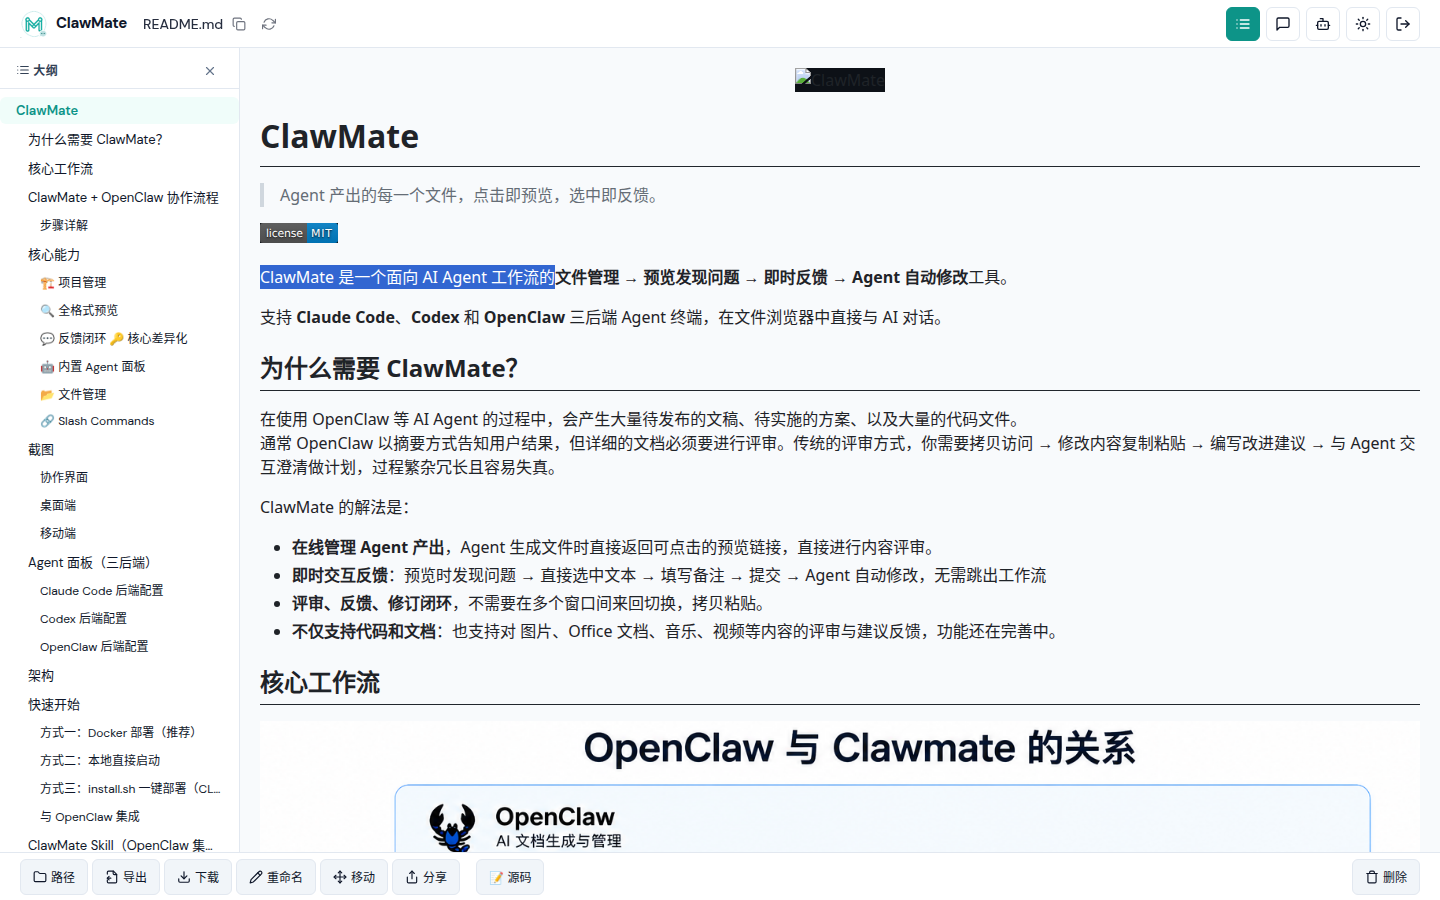
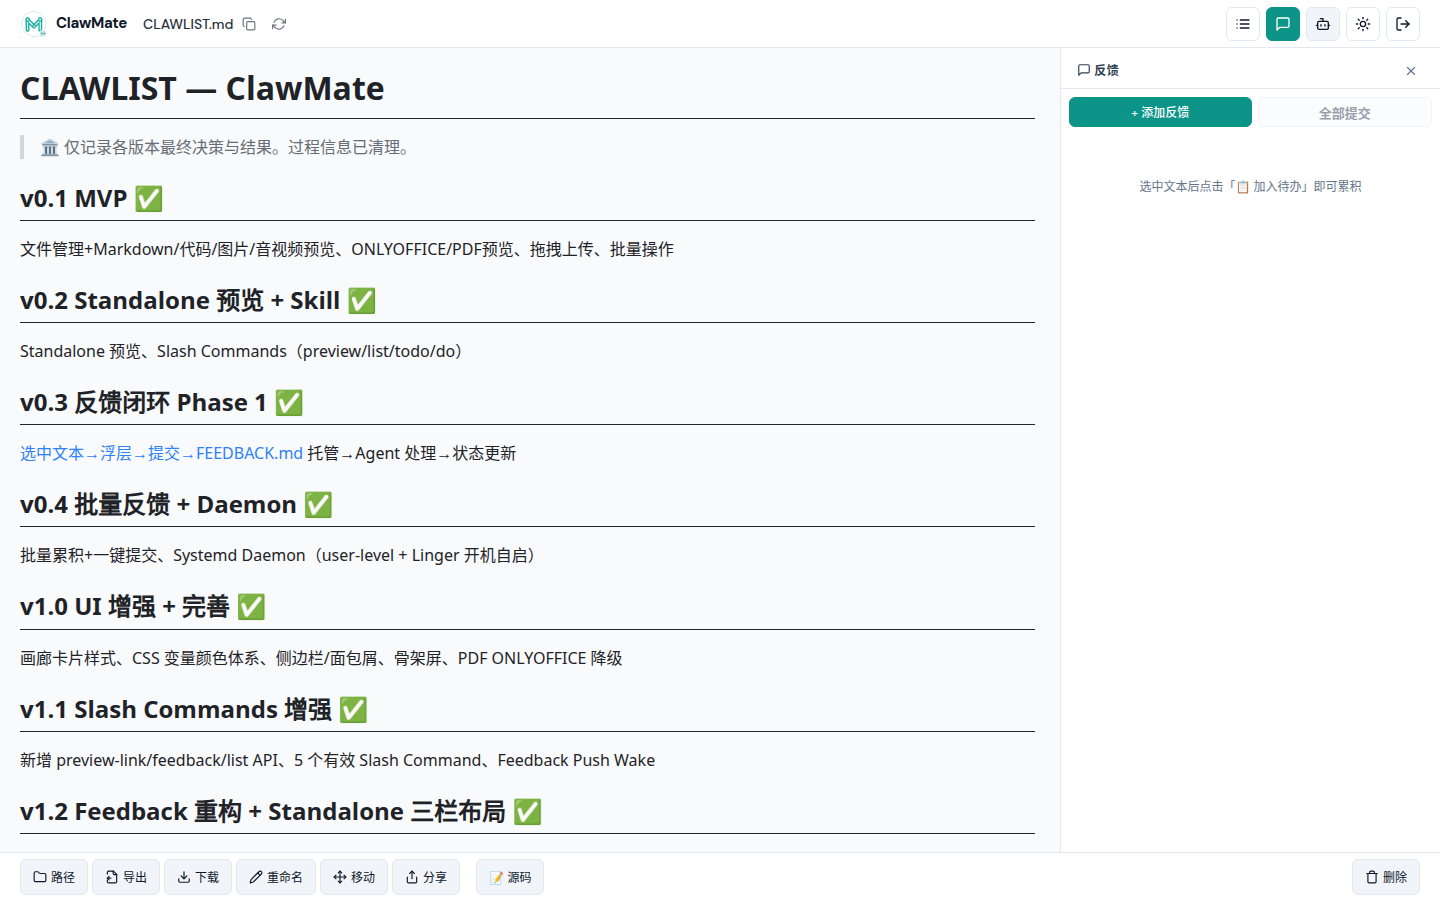
docs(README): 截图以 clawmate 项目为主页，补充 agent/feedback panel + 移动端合并
- 文件浏览器截图使用 clawmate 项目目录内容
- 预览截图展示 CLAWLIST.md + feedback timeline 面板
- 新增 agent panel（xterm.js PTY 终端）截图
- 移动端两张合并为 cm-mobile-combined.png 同行显示
- 清理未引用截图（cm-desktop-preview.png、单独的 mobile 截图）

diff --git a/README.md b/README.md
@@ -220,7 +220,7 @@ ClawMate 右侧面板直接运行 AI Agent，无需切换窗口：
 
 ## 截图
 
-### 文件管理
+### 文件管理（clawmate 项目）
 
 ![文件管理](assets/cm-desktop-file-browser.png)
 
@@ -236,17 +236,13 @@ ClawMate 右侧面板直接运行 AI Agent，无需切换窗口：
 
 ![Agent 面板](assets/cm-desktop-agent-panel.png)
 
-*右侧内嵌 xterm.js PTY 终端（Claude Code / Codex），直接对话修改文件*
+*右侧内嵌 xterm.js PTY 终端（Claude Code / Codex），预览中直接对话修改文件*
 
 ### 移动端
 
-![移动端文件管理](assets/cm-mobile-file-browser.png)
+![移动端](assets/cm-mobile-combined.png)
 
-*移动端文件管理：上传 + 搜索 + 批量操作*
-
-![移动端文件预览](assets/cm-mobile-preview.png)
-
-*移动端适配：文件预览 + 反馈提交*
+*左：文件管理（上传/搜索/批量操作） 右：Markdown 预览 + 反馈提交*
 
 ## Agent 面板（三后端）
 